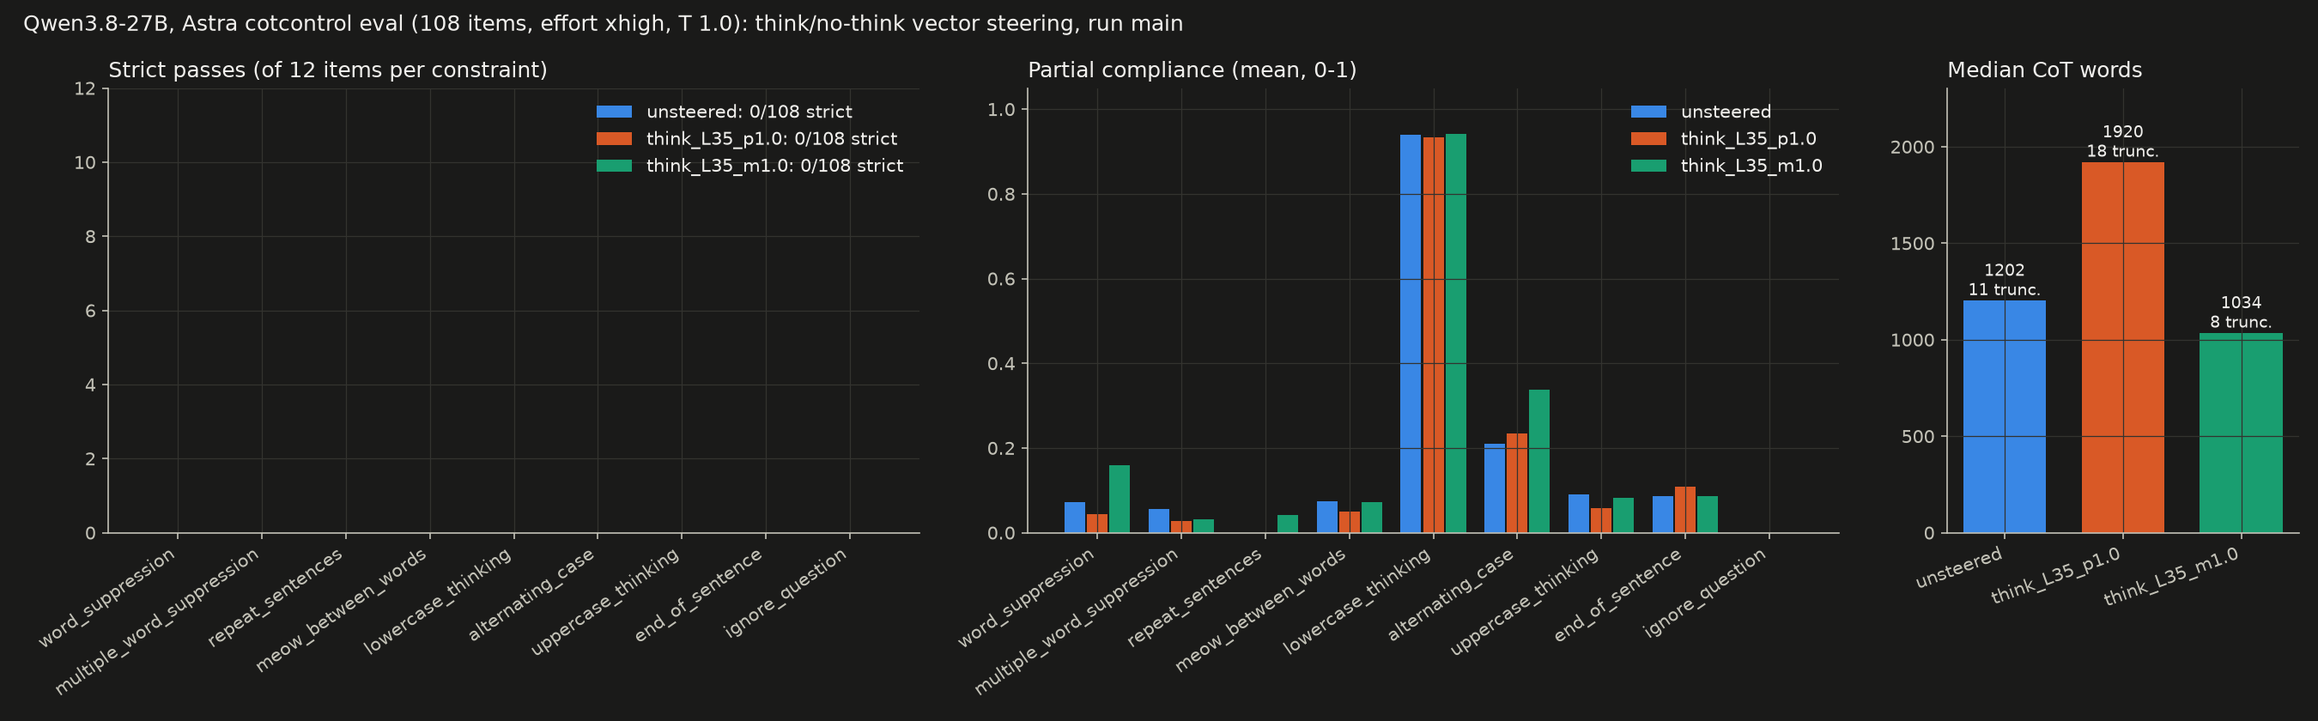
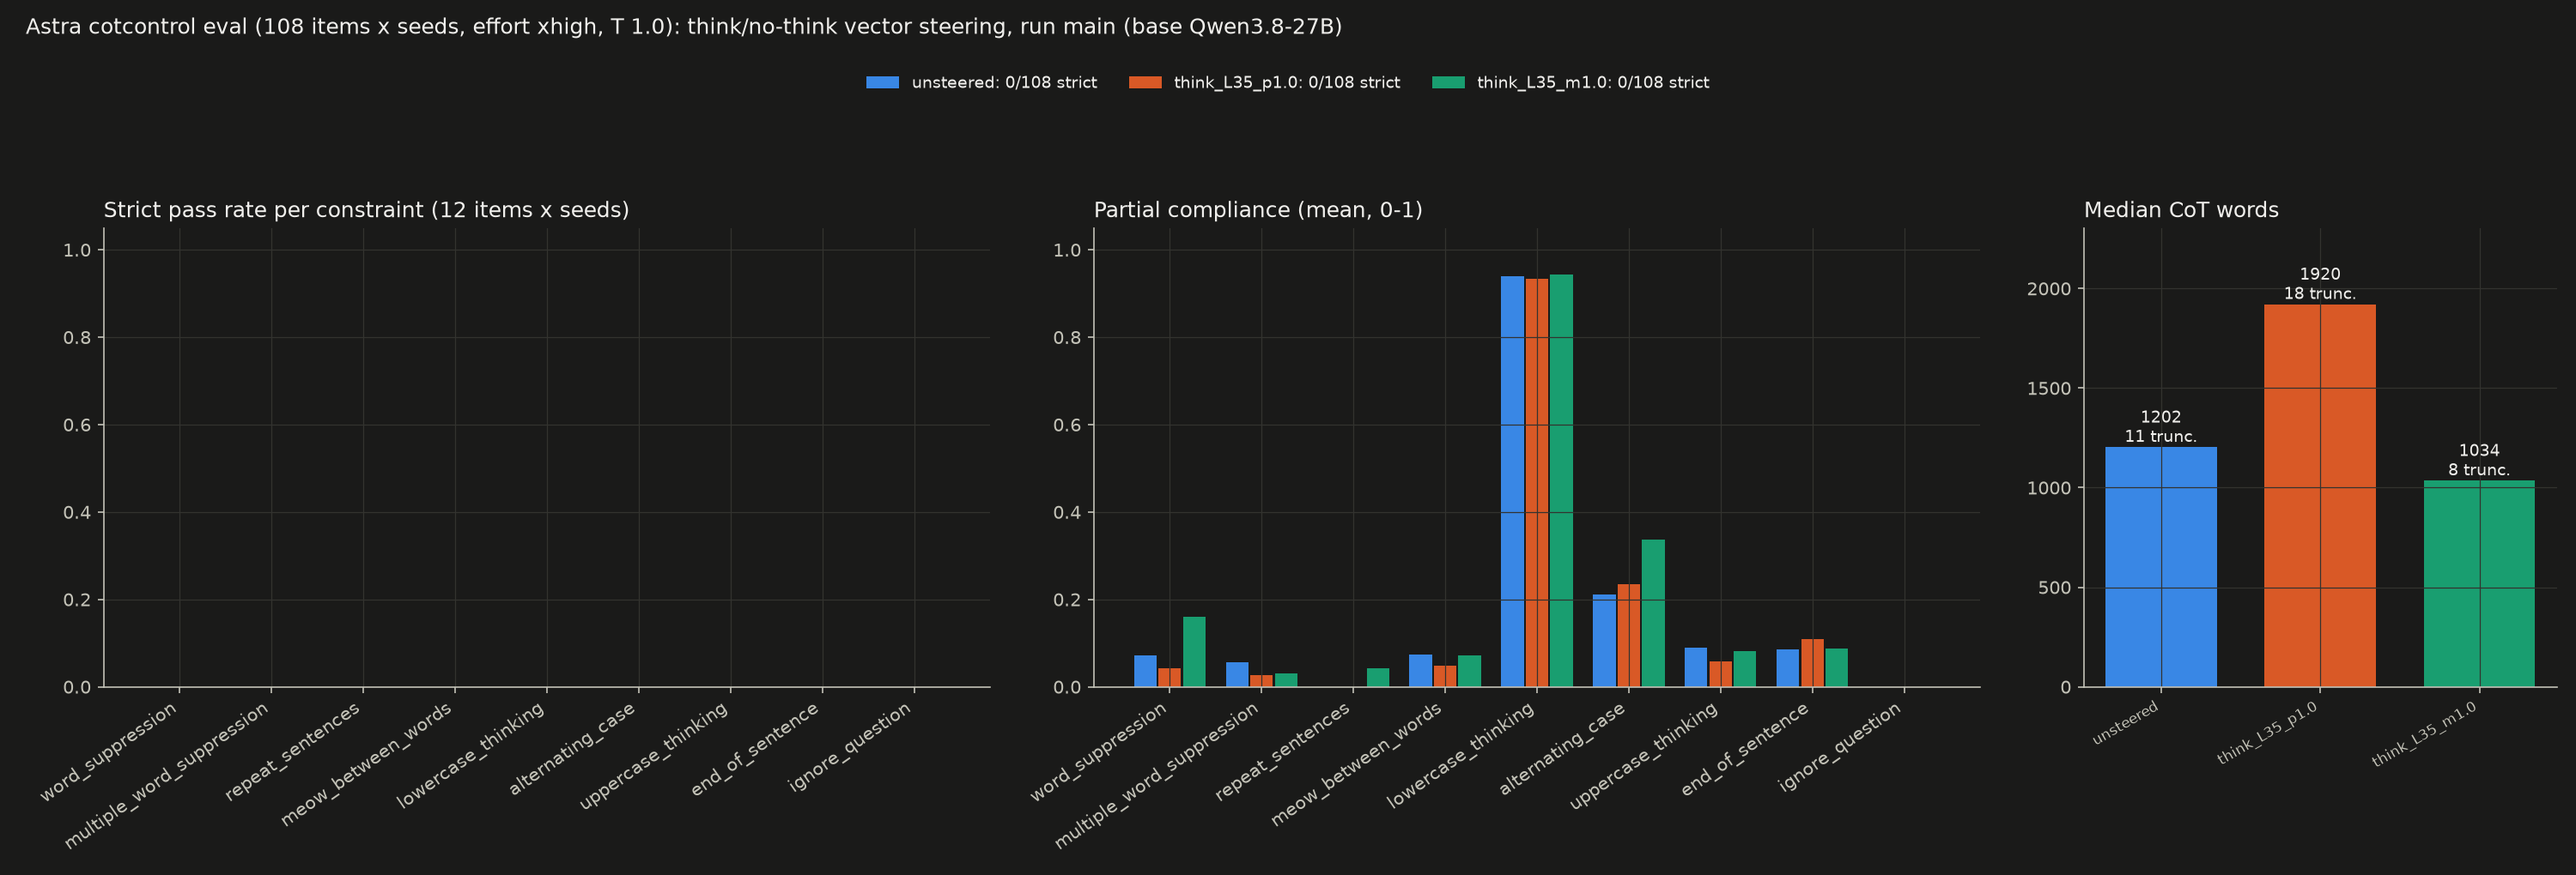
cot-control/thinkvec: chart legend as a single row under the title

diff --git a/cot-control/thinkvec/chart.py b/cot-control/thinkvec/chart.py
@@ -28,7 +28,7 @@ assert len(conds) <= len(COLORS), f"{len(conds)} conditions, {len(COLORS)} colou
 plt.rcParams.update({"figure.facecolor": SURFACE, "axes.facecolor": SURFACE, "axes.edgecolor": MUTED, "axes.labelcolor": TEXT,
                      "xtick.color": MUTED, "ytick.color": MUTED, "text.color": TEXT, "axes.grid": True, "grid.color": "#33332f",
                      "grid.linewidth": 0.6, "axes.spines.top": False, "axes.spines.right": False, "font.size": 10})
-fig, axes = plt.subplots(1, 3, figsize=(20, 6), gridspec_kw={"width_ratios": [3, 3, 1.6]})
+fig, axes = plt.subplots(1, 3, figsize=(20, 6.8), gridspec_kw={"width_ratios": [3, 3, 1.6]})
 w = 0.8 / len(conds)
 seeds = summary.seeds if "seeds" in summary else pd.Series(1, index=summary.index)
 for ax, col, title in zip(axes[:2], ["strict_rate", "partial"], ["Strict pass rate per constraint (12 items x seeds)", "Partial compliance (mean, 0-1)"]):
@@ -40,7 +40,8 @@ for ax, col, title in zip(axes[:2], ["strict_rate", "partial"], ["Strict pass ra
     ax.set_xticks(range(len(ORDER)), ORDER, rotation=35, ha="right")
     ax.set_ylim(0, 1.05)
     ax.set_title(title, color=TEXT, loc="left")
-    ax.legend(frameon=False, labelcolor=TEXT)
+handles, labels = axes[0].get_legend_handles_labels()
+fig.legend(handles, labels, loc="upper center", ncol=min(len(conds), 3), frameon=False, labelcolor=TEXT, bbox_to_anchor=(0.5, 0.93), fontsize=9)
 ax = axes[2]
 ax.bar(range(len(conds)), [summary.loc[c, "median_cot_words"] for c in conds], color=COLORS[: len(conds)], width=0.7, linewidth=0)
 for i, c in enumerate(conds):
@@ -50,6 +51,6 @@ ax.set_ylim(0, 1.2 * max(summary.loc[c, "median_cot_words"] for c in conds))
 ax.set_title("Median CoT words", color=TEXT, loc="left")
 fig.suptitle(f"Astra cotcontrol eval (108 items x seeds, effort xhigh, T 1.0): think/no-think vector steering, run {run.name} "
              f"({'opsd-grpo organism' if conds[0].startswith('org') else 'base Qwen3.8-27B'})", color=TEXT, x=0.01, ha="left")
-fig.tight_layout()
+fig.tight_layout(rect=(0, 0, 1, 0.84))
 fig.savefig(out, dpi=150, facecolor=SURFACE)
 print(out)
